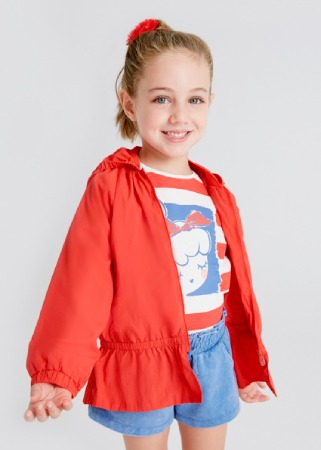
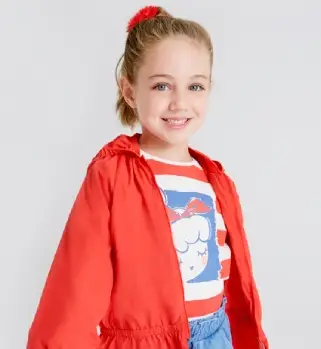
cambios index

diff --git a/index.html b/index.html
@@ -47,10 +47,10 @@
 <main class="container-fluid">
     <div class= "row">
     <article class="col-sm-12 col-md-6" id="tarjeta">
-    <div class="card mb-2" style="max-width: 100%;">
+    <div class="card mb-1" style="max-width: 100%;">
     <div class="row g-0">
     <div class="col-md-6">
-        <img src="images/nena.jpg" class="img-fluid rounded-start" alt="niña con capera roja, remera rayada y short de jean">
+        <img src="images/nena1.jpg" class="img-fluid rounded-start" alt="niña con capera roja, remera rayada y short de jean">
     </div>
     <div class="col-md-6">
     <div class="card-body">
@@ -66,10 +66,10 @@
     </div>
     </div>
     </div>
-    <div class="card mb-2" style="max-width: 100%;">
+    <div class="card mb-1" style="max-width: 100%;">
     <div class="row g-0">
     <div class="col-md-6">
-    <img src="images/nene6.jpg" class="img-fluid rounded-start" alt="niño con chomba amarilla y jean">
+    <img src="images/nene7.jpg" class="img-fluid rounded-start" alt="niño con chomba amarilla y jean">
     </div>
     <div class="col-md-6">
     <div class="card-body">

diff --git a/css/style.css b/css/style.css
@@ -24,21 +24,19 @@
 
 #carrusel {
   padding-right: 10px;
-  width: 48vw;
-  height: auto;
 }
 
 #tarjeta {
   padding-left: 10px;
+  margin-bottom: 10px;
 }
 
 .card {
   border-radius: 10px;
-  width: 48vw;
 }
 
 .promo {
-  font-size: 2em;
+  font-size: 1.7em;
   line-height: 1em;
   color: grey;
   font-family: "Mouse Memoirs", sans-serif;
@@ -193,13 +191,18 @@ h4 {
   outline: none;
 }
 
+form {
+  display: flex;
+  justify-content: center;
+  align-items: center;
+}
+
 .shop, .ingresar, .comprar {
   background-color: #FFD833;
   color: white;
   border-radius: 10px;
   text-align: center;
   border: none;
-  margin-left: 100px;
 }
 .shop:hover, .ingresar:hover, .comprar:hover {
   box-shadow: 1px 5px 14px 1px rgba(0, 0, 0, 0.42);

diff --git a/scss/_buttons.scss b/scss/_buttons.scss
@@ -1,11 +1,14 @@
-
+form {
+	display: flex;
+	justify-content: center;
+	align-items: center;
+}
 .shop{
 	background-color: $amarillo;
 	color: map-get($map:$colors, $key:'uno');
 	border-radius: 10px;
 	text-align: center;
 	border: none;
-	margin-left: 100px;
 	&:hover{
 	box-shadow: 1px 5px 14px 1px rgba(0,0,0,0.42);
 	-webkit-box-shadow: 1px 5px 14px 1px rgba(0,0,0,0.42);
@@ -13,6 +16,7 @@
 	-o-box-shadow: 1px 5px 14px 1px rgba(0,0,0,0.42);
 	-ms-box-shadow: 1px 5px 14px 1px rgba(0,0,0,0.42);
 	cursor: pointer;
+
 }
 }
 .comprar {

diff --git a/pages/order.html b/pages/order.html
@@ -47,8 +47,7 @@
 <article class= "container-fluid">
 	<div class= "row">
 	<article class="col-sm-12 col-md-6 col-lg-6"> 
-	<h1>Registrate y aprovechá el 10% OFF en tu primera compra!</h1>
-	<h2>Mi cuenta</h2>	
+	<h1>Registrate y aprovechá el 10% OFF en tu primera compra!</h1>	
 <form class="row g-3" id="formulario">
   <div class="col-md-6">
     <label for="inputEmail4" class="form-label">Email</label>

diff --git a/scss/_productos.scss b/scss/_productos.scss
@@ -1,20 +1,20 @@
 #carrusel {
 	padding-right: 10px;
-	width: 48vw;
-	height: auto;
+
 }
+
 
 #tarjeta {
 	padding-left: 10px;
+	margin-bottom: 10px;
 }
 
 .card {
 	border-radius: 10px;
-	width: 48vw;
 	}
 
 .promo {
-	@include texto(2em, 1em, grey);
+	@include texto(1.7em, 1em, grey);
 	font-family: $fontSecondary;
 	letter-spacing: 0.1em;
 	text-align: center;
